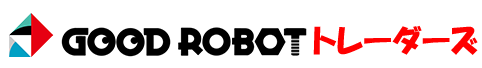
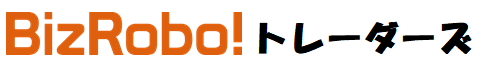
URL変更（プロジェクト)

diff --git a/public/404.html b/public/404.html
@@ -1,0 +1,33 @@
+<!DOCTYPE html>
+<html>
+  <head>
+    <meta charset="utf-8">
+    <meta name="viewport" content="width=device-width, initial-scale=1">
+    <title>Page Not Found</title>
+
+    <style media="screen">
+      body { background: #ECEFF1; color: rgba(0,0,0,0.87); font-family: Roboto, Helvetica, Arial, sans-serif; margin: 0; padding: 0; }
+      #message { background: white; max-width: 360px; margin: 100px auto 16px; padding: 32px 24px 16px; border-radius: 3px; }
+      #message h3 { color: #888; font-weight: normal; font-size: 16px; margin: 16px 0 12px; }
+      #message h2 { color: #ffa100; font-weight: bold; font-size: 16px; margin: 0 0 8px; }
+      #message h1 { font-size: 22px; font-weight: 300; color: rgba(0,0,0,0.6); margin: 0 0 16px;}
+      #message p { line-height: 140%; margin: 16px 0 24px; font-size: 14px; }
+      #message a { display: block; text-align: center; background: #039be5; text-transform: uppercase; text-decoration: none; color: white; padding: 16px; border-radius: 4px; }
+      #message, #message a { box-shadow: 0 1px 3px rgba(0,0,0,0.12), 0 1px 2px rgba(0,0,0,0.24); }
+      #load { color: rgba(0,0,0,0.4); text-align: center; font-size: 13px; }
+      @media (max-width: 600px) {
+        body, #message { margin-top: 0; background: white; box-shadow: none; }
+        body { border-top: 16px solid #ffa100; }
+      }
+    </style>
+  </head>
+  <body>
+    <div id="message">
+      <h2>404</h2>
+      <h1>Page Not Found</h1>
+      <p>The specified file was not found on this website. Please check the URL for mistakes and try again.</p>
+      <h3>Why am I seeing this?</h3>
+      <p>This page was generated by the Firebase Command-Line Interface. To modify it, edit the <code>404.html</code> file in your project's configured <code>public</code> directory.</p>
+    </div>
+  </body>
+</html>

diff --git a/public/index.html b/public/index.html
@@ -6,12 +6,12 @@
     <title>Welcome to Firebase Hosting</title>
 
     <!-- update the version number as needed -->
-    <script defer src="/__/firebase/7.7.0/firebase-app.js"></script>
+    <script defer src="/__/firebase/7.11.0/firebase-app.js"></script>
     <!-- include only the Firebase features as you need -->
-    <script defer src="/__/firebase/7.7.0/firebase-auth.js"></script>
-    <script defer src="/__/firebase/7.7.0/firebase-database.js"></script>
-    <script defer src="/__/firebase/7.7.0/firebase-messaging.js"></script>
-    <script defer src="/__/firebase/7.7.0/firebase-storage.js"></script>
+    <script defer src="/__/firebase/7.11.0/firebase-auth.js"></script>
+    <script defer src="/__/firebase/7.11.0/firebase-database.js"></script>
+    <script defer src="/__/firebase/7.11.0/firebase-messaging.js"></script>
+    <script defer src="/__/firebase/7.11.0/firebase-storage.js"></script>
     <!-- initialize the SDK after all desired features are loaded -->
     <script defer src="/__/firebase/init.js"></script>
 

diff --git a/public/movie/2/index.html b/public/movie/2/index.html
@@ -29,6 +29,7 @@
 	<a href="">
 	<div class="img-thumb w160">
 	<img class="lazyloaded" src="../img/rank_11.jpg">
+	<noscript><img src="./rank＿11.jpg" /></noscript> </div> </a>
 	<ul>	
 	<li class="rating">評価</li><li class="score">8.0</li></ul><br>
 	<small class="time">劇場公開日：2019年10月22日</small> </td> <td> <div class="txt-box">

diff --git a/public/finance/1/index.html b/public/finance/1/index.html
@@ -681,7 +681,6 @@
 	</ul>
 
 <div id="footer">
-<address>
-Copyright (C) 2019 GOOD ROBOT, Ltd. All Rights Reserved..</address>
+<address>All Rights Reserved..</address>
 
 </body></html>

diff --git a/public/finance/3/index.html b/public/finance/3/index.html
@@ -682,7 +682,6 @@
 	</ul>
 
 <div id="footer">
-<address>
-Copyright (C) 2019 GOOD ROBOT, Ltd. All Rights Reserved..</address>
+<address>All Rights Reserved..</address>
 
 </body></html>

diff --git a/public/finance/4/index.html b/public/finance/4/index.html
@@ -679,7 +679,6 @@
 	</ul>
 
 <div id="footer">
-<address>
-Copyright (C) 2019 GOOD ROBOT, Ltd. All Rights Reserved..</address>
+<address>All Rights Reserved..</address>
 
 </body></html>

diff --git a/public/finance/2/index.html b/public/finance/2/index.html
@@ -682,7 +682,6 @@
 </ul>
 
 <div id="footer">
-<address>
-Copyright (C) 2019 GOOD ROBOT, Ltd. All Rights Reserved..</address>
+<address>All Rights Reserved..</address>
 
 </body></html>

diff --git a/README.md b/README.md
@@ -1,5 +1,48 @@
 # 研修用サイト
 
+## 2020/3/13 URL変更
+* koujunmai@gmail.comに作成
+* Project作成 bizrobo-training
+* Hosting -> firebase init
+
+## ログイン画面
+* [ログイン画面](https://bizrobo-training.firebaseapp.com/login/)
+## 映画サイト
+1. [映画サイト 1](https://bizrobo-training.firebaseapp.com/movie/1/)
+1. [映画サイト 2](https://bizrobo-training.firebaseapp.com/movie/2/)
+1. [映画サイト 3](https://bizrobo-training.firebaseapp.com/movie/3/)
+1. [映画サイト 4](https://bizrobo-training.firebaseapp.com/movie/4/)
+## 株価サイト
+1. [株価サイト 1](https://bizrobo-training.firebaseapp.com/finance/1/)
+1. [株価サイト 2](https://bizrobo-training.firebaseapp.com/finance/2/)
+1. [株価サイト 3](https://bizrobo-training.firebaseapp.com/finance/3/)
+1. [株価サイト 4](https://bizrobo-training.firebaseapp.com/finance/4/)
+
+## Github
+* git init 
+  * Reinitialized existing Git repository in C:/_source/TrainingSite/.git/
+* edit .gitignore
+* ローカルコミット
+* git remote add origin https://github.com/bizroboland-admin/training.git
+* git push -u origin master
+
+## Hosting
+* firebase init
+* firebase use bizrobo-training
+* firebase deploy
+
+## ローカルでテストしてサイトにデプロイする
+* firebase serve --only hosting
+## 
+* firebase serve
+* firebase serve --only functions,hosting
+* firebase serve --only functions
+
+* firebase hosting:disable   : 削除
+
+
+## ◆◆◆以前の設定
+* koujunmai@gmail.comに作成
 ## ログイン画面
 * [ログイン画面](https://goodlife-training-site.firebaseapp.com/login/)
 ## 映画サイト
@@ -13,24 +56,3 @@
 1. [株価サイト 3](https://goodlife-training-site.firebaseapp.com/finance/3/)
 1. [株価サイト 4](https://goodlife-training-site.firebaseapp.com/finance/4/)
 
-## Github
-* git init 
-  * Reinitialized existing Git repository in C:/_source/TrainingSite/.git/
-* edit .gitignore
-* ローカルコミット
-* git remote add origin https://github.com/bizroboland-admin/training.git
-* git push -u origin master
-
-## Hosting
-* firebase init
-* firebase use goodlife-training-site
-* firebase deploy
-
-## ローカルでテストしてサイトにデプロイする
-* firebase serve --only hosting
-## 
-* firebase serve
-* firebase serve --only functions,hosting
-* firebase serve --only functions
-
-* firebase hosting:disable   : 削除
